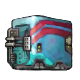
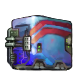
New branch, working on new tier, adjust the higher tier bionic sprite

diff --git a/src/pigeonpun/bionicalteration/bionic/impl/domain/ba_brain_neura_matrix_effect.java b/src/pigeonpun/bionicalteration/bionic/impl/domain/ba_brain_neura_matrix_effect.java
@@ -1,0 +1,84 @@
+package pigeonpun.bionicalteration.bionic.impl.domain;
+
+import com.fs.starfarer.api.campaign.SpecialItemPlugin;
+import com.fs.starfarer.api.campaign.econ.MarketAPI;
+import com.fs.starfarer.api.characters.MutableCharacterStatsAPI;
+import com.fs.starfarer.api.characters.PersonAPI;
+import com.fs.starfarer.api.combat.MutableShipStatsAPI;
+import com.fs.starfarer.api.combat.ShipAPI;
+import com.fs.starfarer.api.ui.TooltipMakerAPI;
+import pigeonpun.bionicalteration.ba_limbmanager;
+import pigeonpun.bionicalteration.bionic.ba_bioniceffect;
+import pigeonpun.bionicalteration.bionic.ba_bionicitemplugin;
+
+public class ba_brain_neura_matrix_effect implements ba_bioniceffect {
+    @Override
+    public void setBionicItem(ba_bionicitemplugin bionic) {
+
+    }
+
+    @Override
+    public void displayEffectDescription(TooltipMakerAPI tooltip, PersonAPI person, ba_bionicitemplugin bionic, boolean isItem) {
+
+    }
+
+    @Override
+    public String getShortOnRemoveEffectDescription() {
+        return null;
+    }
+
+    @Override
+    public void applyOfficerEffect(MutableShipStatsAPI stats, ShipAPI.HullSize hullSize, String id) {
+
+    }
+
+    @Override
+    public void unapplyOfficerEffect(MutableShipStatsAPI stats, ShipAPI.HullSize hullSize, String id) {
+
+    }
+
+    @Override
+    public void applyAdminEffect(MutableCharacterStatsAPI stats, String id) {
+
+    }
+
+    @Override
+    public void unapplyAdminEffect(MutableCharacterStatsAPI stats, String id) {
+
+    }
+
+    @Override
+    public void applyEffectAdminMarket(MarketAPI market, String id, float level, ba_bionicitemplugin bionic) {
+
+    }
+
+    @Override
+    public void unapplyEffectAdminMarket(MarketAPI market, String id) {
+
+    }
+
+    @Override
+    public boolean isAdvanceInCombat() {
+        return false;
+    }
+
+    @Override
+    public void advanceInCombat(ShipAPI ship, float amount) {
+
+    }
+
+    @Override
+    public void onRemove(PersonAPI person, ba_limbmanager.ba_limb limb, ba_bionicitemplugin bionic) {
+
+    }
+
+    @Override
+    public void onInstall(PersonAPI person, ba_limbmanager.ba_limb limb, ba_bionicitemplugin bionic) {
+
+    }
+
+    @Override
+    public void renderExtraOnItem(float x, float y, float w, float h, float alphaMult, float glowMult, SpecialItemPlugin.SpecialItemRendererAPI renderer) {
+
+    }
+}
